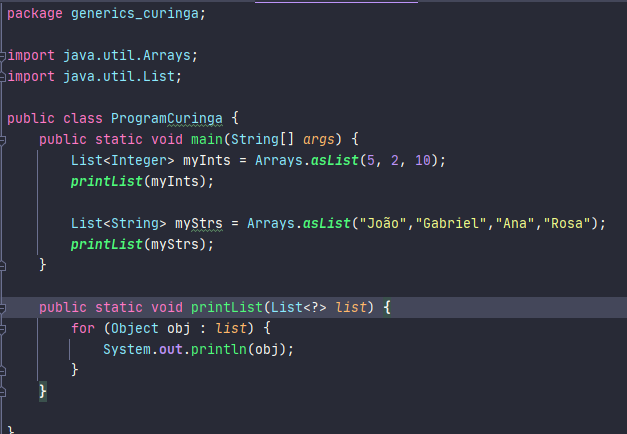
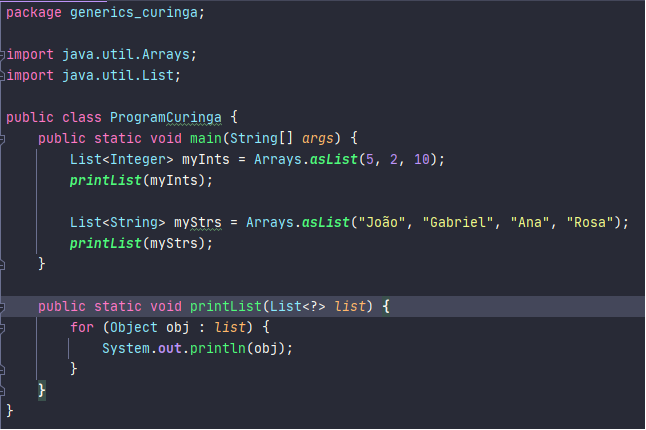
Generico Curinga not add element

diff --git a/Generics/src/generics_curinga/ProgramCuringa.java b/Generics/src/generics_curinga/ProgramCuringa.java
@@ -8,7 +8,7 @@ public class ProgramCuringa {
         List<Integer> myInts = Arrays.asList(5, 2, 10);
         printList(myInts);
 
-        List<String> myStrs = Arrays.asList("João","Gabriel","Ana","Rosa");
+        List<String> myStrs = Arrays.asList("João", "Gabriel", "Ana", "Rosa");
         printList(myStrs);
     }
 
@@ -17,5 +17,4 @@ public class ProgramCuringa {
             System.out.println(obj);
         }
     }
-
 }

diff --git a/README.md b/README.md
@@ -185,6 +185,10 @@ myObjs = myNumbers;
 ````
 ![Alt text](Generics/src/generics_curinga/generics_curinga.png?raw=true "Generics Delimitados")
 
+<p><b>Porém não é possível adicionar dados a uma coleção de tipo curinga</b></p>
+
+![Alt text](Generics/src/generics_curinga/generics_curinga_noAdd.png?raw=true "Generics Delimitados")
+
 #### Set
 
 #### Map
